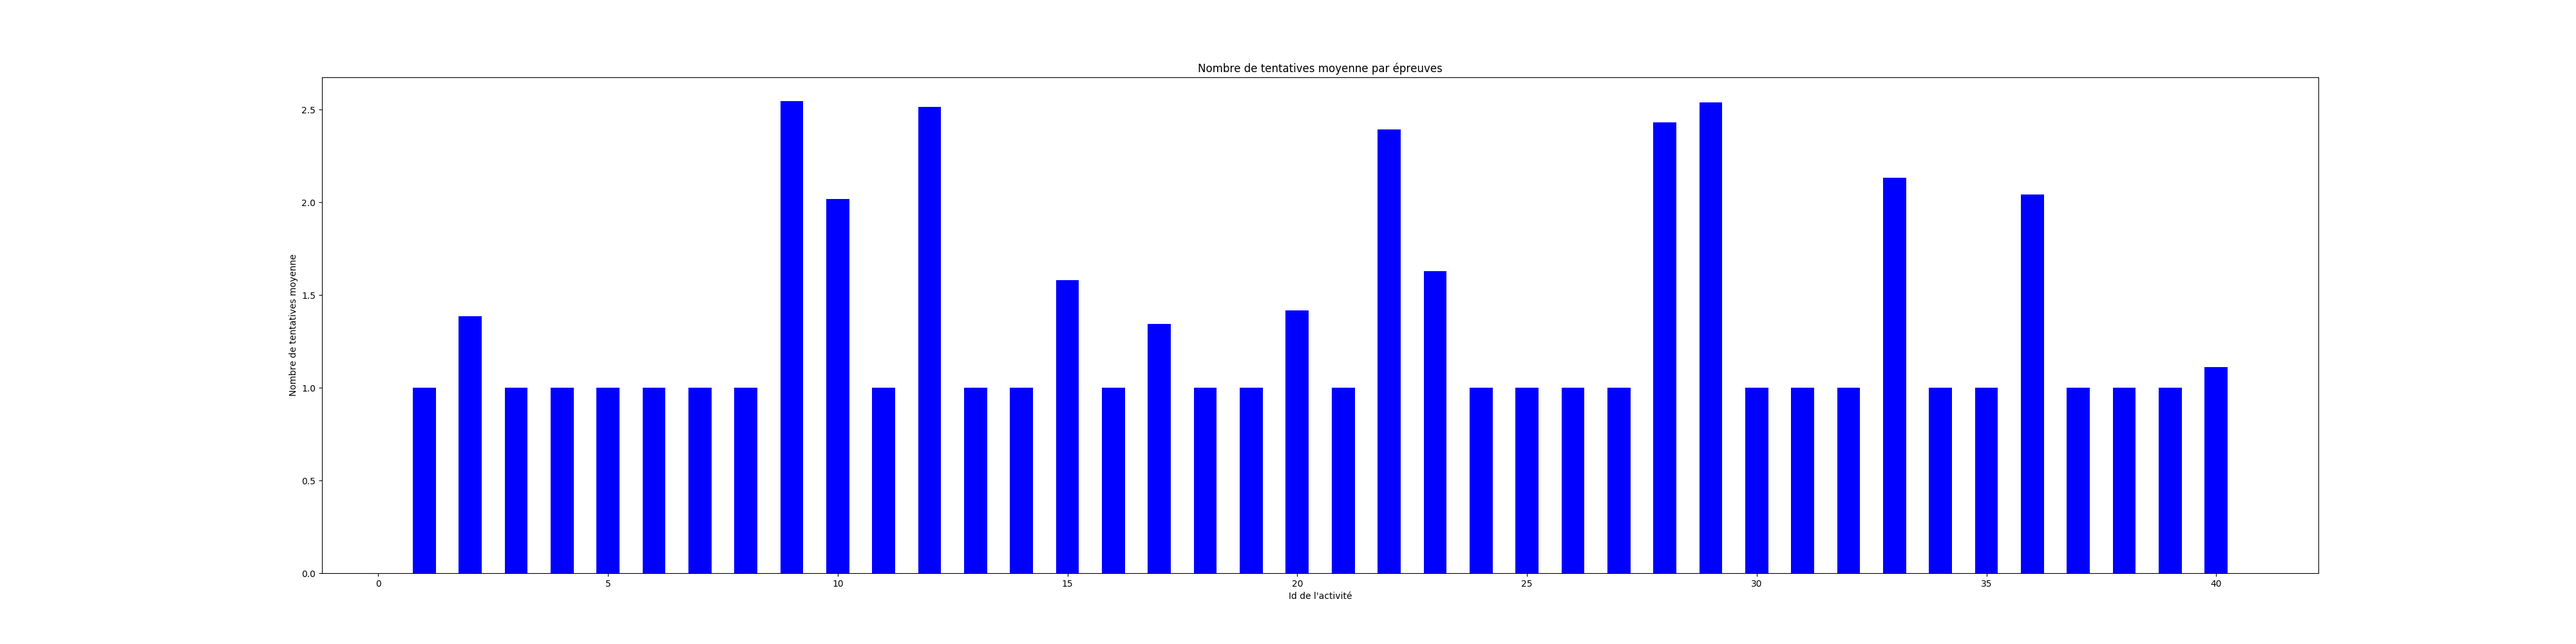
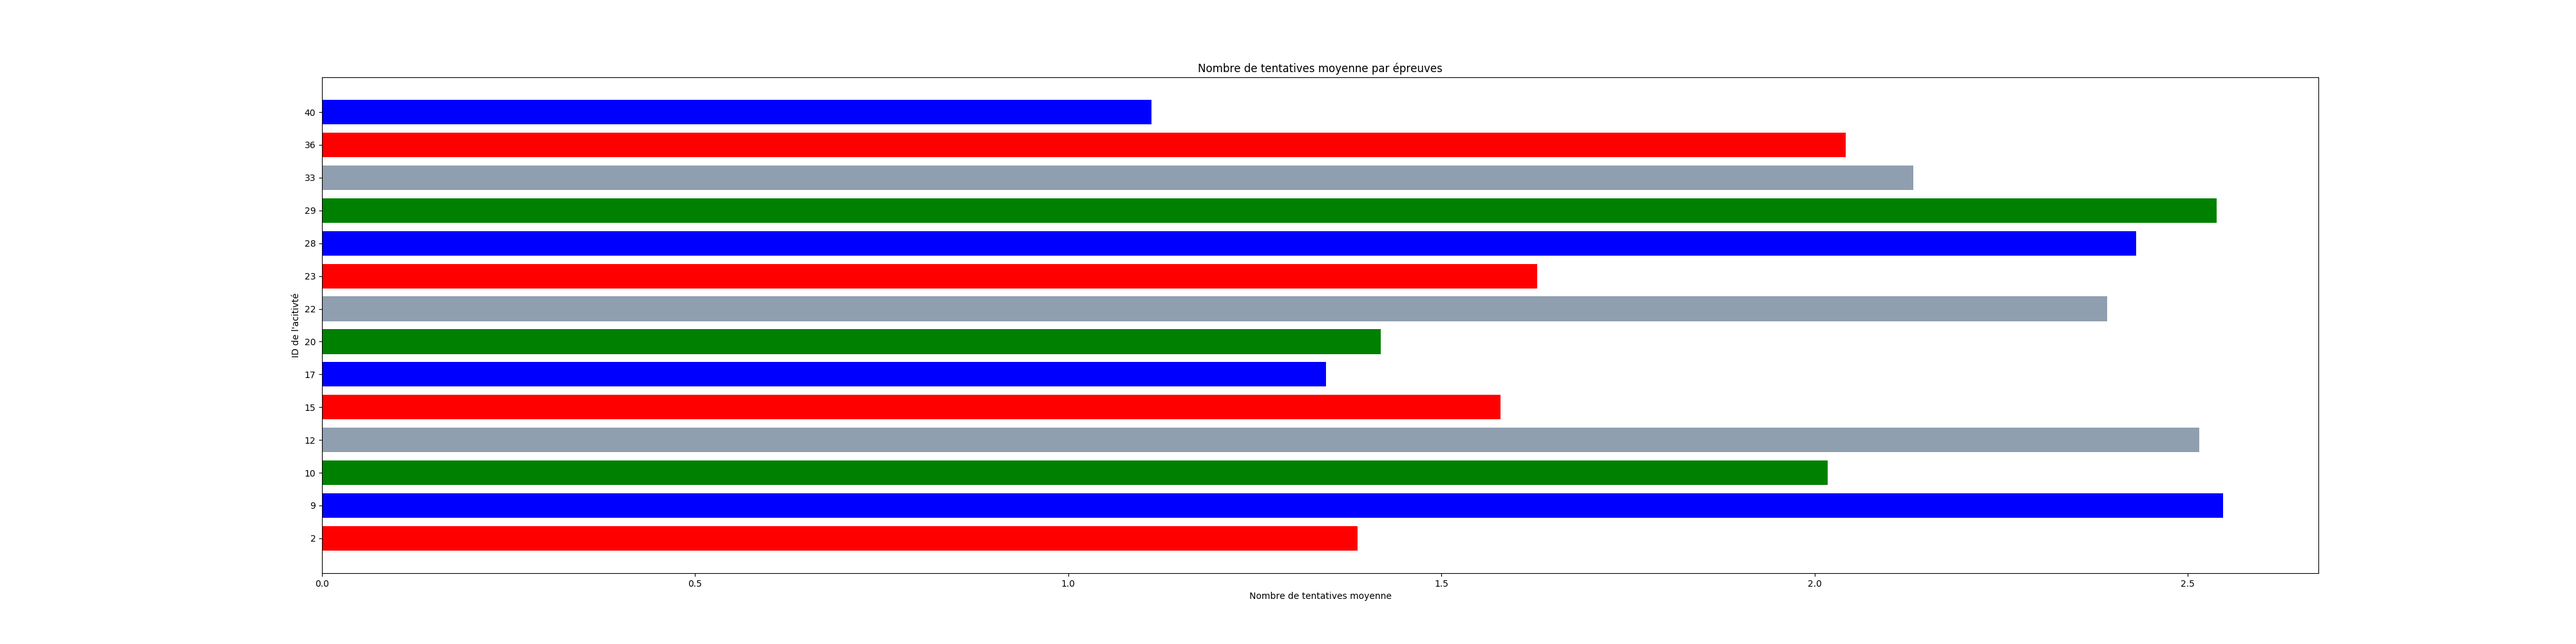
Changement plot4

diff --git a/dataMining/plot4.py b/dataMining/plot4.py
@@ -11,17 +11,21 @@ fig = plt.figure(figsize=(40,10))
 ax = fig.add_subplot(111)
 x=[]
 y=[]
-c.execute("drop view TENTATIVES;")
+c.execute("drop view if exists TENTATIVES;")
 c.execute("create view TENTATIVES as "+
  "select fk_nom_fichier, fk_id_activite, count(*) as nb_tentatives from STATS "+
  "where tentative > 0 " +
  "group by fk_nom_fichier, fk_id_activite")
-for row in c.execute("select fk_id_activite, avg(nb_tentatives) from TENTATIVES " +
- "group by fk_id_activite;"):
-    x.append(row[0])
-    y.append(row[1])
-ax.bar(x,y,0.5,color='b')
+for row in c.execute("select fk_id_activite, avg(nb_tentatives) from ACTIVITE,TENTATIVES " +
+ " where fk_id_section != 1 and type != 'Transition' and type != 'Fiche Mémo' and ACTIVITE.chrono =0 and ACTIVITE.id_activite = TENTATIVES.fk_id_activite "
+                     +"group by fk_id_activite;"):
+    y.append(row[0])
+    x.append(row[1])
+yvals = range(len(y))
+ax.barh(yvals,x,0.75,align='center',color=['r','b','g','#12345678'])
 plt.title("Nombre de tentatives moyenne par épreuves")
-plt.xlabel("Id de l'activité")
-plt.ylabel("Nombre de tentatives moyenne")
+
+plt.yticks(yvals,y)
+plt.xlabel("Nombre de tentatives moyenne")
+plt.ylabel("ID de l'acitivté")
 fig.savefig("plot4.png")
